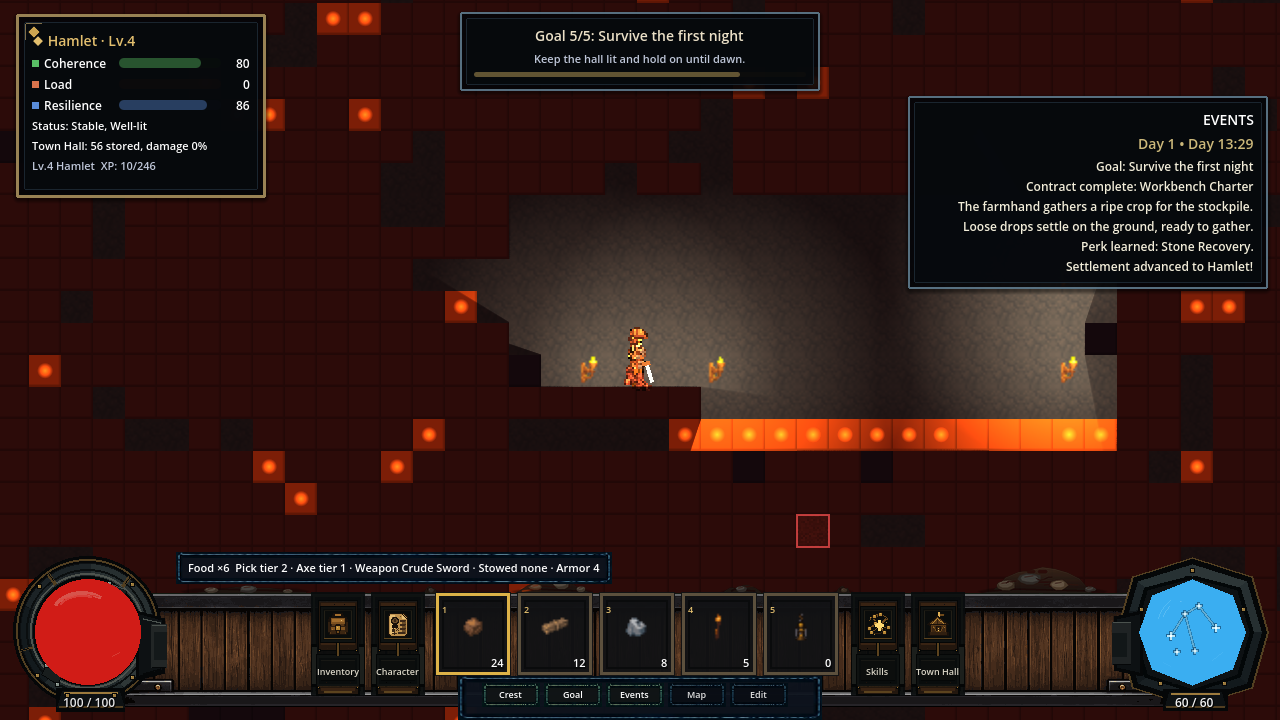
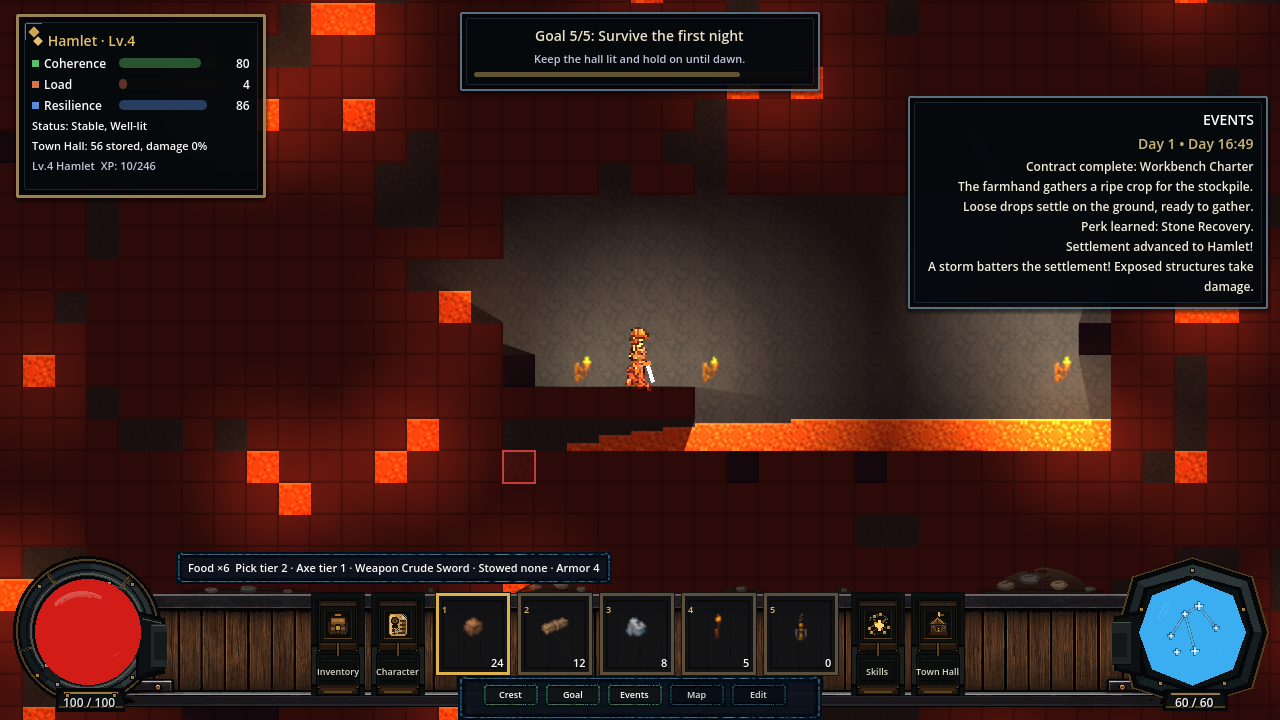
Liquid Physics: continuous falling render, enemies burn in lava, README
- Falling render fix: a submerged liquid cell (same liquid directly above in
  the flow direction) now renders FULL, so a falling column reads as one
  continuous stream instead of a choppy ladder of bottom-anchored slivers;
  only surface cells show their partial level. The sim re-tiles vertical
  neighbours (_refresh_column_tiles) on fill/drain so surface/submerged status
  stays current.
- Enemies affected by lava: simple_threat.apply_environmental_hazard(delta)
  samples the body cell (and the cell above) each physics frame and accumulates
  contact_damage into whole take_hit ticks, so weak enemies die fast and tough
  ones last a few ticks. New smoke lq_lava_damages_enemy.
- README: refreshed hell-biome shot with the new molten lava, added a
  flowing/settled lava pair, a Leveled-liquid-physics feature row, a milestone
  entry, and bumped the smoke count to 428.

Source smoke 428/428, 0 skipped; validator PASS; asset audit clean; capsule
healthy; diff --check clean.

diff --git a/README.md b/README.md
@@ -23,15 +23,21 @@ It is also a **portfolio project in AI-orchestrated software engineering**: ever
 | **Persistent state ownership** | Characters own inventory, loadout, and progression; worlds own terrain deltas and settlement simulation. | [`scripts/shell/`](scripts/shell) · [`scripts/inventory/`](scripts/inventory) |
 | **Data-first design** | Blocks, recipes, enemies, equipment, ancestries, and world presets are JSON authorities. | [`data/`](data) · [`scripts/validate_repo.py`](scripts/validate_repo.py) |
 | **Procedural world depths** | Deterministic terrain from a seed: fraction-based strata (stone → deepstone → hell), a mixed cavern/tunnel carve pass, and lava/hell as data-driven blocks. Saves store `world_seed` + player edits only, and a `gen_version` stamp keeps existing worlds byte-identical as the generator evolves. | [`scripts/world/world_gen.gd`](scripts/world/world_gen.gd) · [`data/world_settings.json`](data/world_settings.json) |
+| **Leveled liquid physics** | Lava flows as a deterministic, mass-conserving cellular automaton: per-cell fill level, pour-down/equalize-sideways, sleep-when-settled with wake-on-disturbance, partial-fill rendering, and a level-scaled glow. Persisted with the terrain deltas; density/flow-direction fields keep it water/gas-ready. | [`scripts/world/fluid_sim.gd`](scripts/world/fluid_sim.gd) · [`data/blocks.json`](data/blocks.json) |
 | **Runtime UI composition** | HUD chrome is separate from live values; inventory mutations are validated at the UI boundary. | [`scripts/ui/hud.gd`](scripts/ui/hud.gd) · [`scripts/ui/inventory_slot_cell.gd`](scripts/ui/inventory_slot_cell.gd) |
 | **Verification as a feature** | Validators and an in-engine smoke harness exercise saves, physics, UI, and system contracts. | [`docs/HANDOFF.md`](docs/HANDOFF.md) · [`scripts/main/smoke_test.gd`](scripts/main/smoke_test.gd) |
 
 ## Screenshots
 
-*Captured from the live build (gameplay shots 2026-07-24; World Depths shots 2026-07-28).*
+*Captured from the live build (gameplay shots 2026-07-24; World Depths shots 2026-07-28; Liquid Physics shots 2026-07-28).*
 
 ![Deep underground in the hell biome — the player on a hellstone ledge beside a glowing lava lake, torch-lit under an ember tint](docs/screenshots/19_hell_biome.png)
-*New in the **World Depths** arc: every world is now a deep vertical descent. Dig down through stone into **deepstone**, then into a **hell biome** of hellstone and obsidian pooled with **lava** — a non-solid, light-emitting block that burns anything standing in it (routed through the same `take_damage` authority as combat). Mixed **caverns and winding tunnels** riddle the depths, and an unmineable **bedrock floor** bounds the world. The deepest band drives an ember ambient tint; lava casts its own glow.*
+*New in the **World Depths** arc: every world is now a deep vertical descent. Dig down through stone into **deepstone**, then into a **hell biome** of hellstone and obsidian pooled with **lava** — a non-solid, light-emitting block that burns anything standing in it (routed through the same `take_damage` authority as combat). Mixed **caverns and winding tunnels** riddle the depths, and an unmineable **bedrock floor** bounds the world. The deepest band drives an ember ambient tint; lava now reads as a continuous molten body with a soft, level-scaled glow.*
+
+| ![Lava mid-pour: a full source column feeding a thinning, glowing cascade across the floor](docs/screenshots/21_lava_flow_pour.png)<br>*Lava pouring* | ![Lava settled into a flat, partial-depth pool across a stone basin](docs/screenshots/22_lava_flow_settled.png)<br>*Lava settled* |
+| --- | --- |
+
+*New in the **Liquid Physics** arc: lava is now a real **leveled fluid**. A deterministic, mass-conserving cellular automaton makes it flow, fall, and settle — each cell carries a fill level, pours down and equalizes sideways, and **sleeps** once level so a still world costs nothing. Generated pools stay at rest until **disturbed** (mine a wall and the pool pours through). It renders at **partial fill** (submerged cells read full so a falling column is a continuous stream, not a ladder), glows **brighter the fuller it is**, and burns both the player **and enemies** through the shared `contact_damage` hazard. The engine carries density and flow-direction fields, so water and gas are future data-only additions.*
 
 ![A generated cross-section of three world sizes, each descending through stone, deepstone, caves, and a hell layer streaked with lava](docs/screenshots/20_world_depths_biome.png)
 *The same progression scales to **every** world size (Small · Large · Vast shown, rendered straight from the generator). Strata are placed as **fractions of each world's depth**, so hell is the floor of every world rather than a feature of the largest one — asserted by the `wd_hell_in_all_sizes` smoke check. Terrain is regenerated deterministically from `world_seed`; only player edits are saved, so a huge world costs nothing extra on disk, and a `gen_version` stamp keeps existing worlds byte-identical.*
@@ -143,7 +149,7 @@ terrain history, settlement, and progression. Persistence lives in
 
 This repo doubles as an experiment in disciplined AI-driven development:
 
-- **Self-verifying build.** A smoke suite runs the *real game* — real input map, real physics, real saves — and asserts 403 checks across mining, save/load round-trips, legacy migrations, UI panel contents, Map/Events coexistence, HUD-kit layering, physics traversal, armor math, adaptive-music transitions, the character-rendering contract, body-specific gear resolution and alignment, directional action animation, the shared-path creation/character-select preview, the runtime-children Character panel, the backdrop contour skirt, the viewport-relative skill panel, the visible-subject labor loop, directed-goal contracts, the contracts panel, the deterministic contract balance report, the procedural world depths (fractional strata, caves, and the hell/lava biome in every world size), and event stingers. The full suite is at **418/418** in source (2026-07-28); the exported Windows artifact launches and runs green with six `res://` fixture checks skipped only under read-only export (verified by CI on every push). Two runtime notes: the real-time `fq09u1_live_clip_switch` adaptive-music check occasionally cold-flakes and passes on rerun; the `fq19_map_events_coexist` geometry check is sensitive to a contaminated persisted `shell.json` and passes from a clean profile.
+- **Self-verifying build.** A smoke suite runs the *real game* — real input map, real physics, real saves — and asserts 403 checks across mining, save/load round-trips, legacy migrations, UI panel contents, Map/Events coexistence, HUD-kit layering, physics traversal, armor math, adaptive-music transitions, the character-rendering contract, body-specific gear resolution and alignment, directional action animation, the shared-path creation/character-select preview, the runtime-children Character panel, the backdrop contour skirt, the viewport-relative skill panel, the visible-subject labor loop, directed-goal contracts, the contracts panel, the deterministic contract balance report, the procedural world depths (fractional strata, caves, and the hell/lava biome in every world size), the leveled liquid physics (lava pours, conserves mass, settles, and burns the player and enemies), and event stingers. The full suite is at **428/428** in source (2026-07-28); the exported Windows artifact launches and runs green with six `res://` fixture checks skipped only under read-only export (verified by CI on every push). Two runtime notes: the real-time `fq09u1_live_clip_switch` adaptive-music check occasionally cold-flakes and passes on rerun; the `fq19_map_events_coexist` geometry check is sensitive to a contaminated persisted `shell.json` and passes from a clean profile.
 - **Evidence over claims.** Increment scope, decisions, review findings, and validation state are summarized in [`docs/HANDOFF.md`](docs/HANDOFF.md). Historical raw protocol artifacts are still tracked; their fit with the current public-repository profile is explicitly flagged for owner review rather than silently presented as settled policy.
 - **Independent review loop.** Each change was reviewed by a separate agent pass before commit; findings (from save-corruption edge cases to invisible-tint rendering bugs) are documented and fixed in the ledgers.
 - **Task queue discipline.** Work follows [`docs/FABLE_TASK_QUEUE.md`](docs/FABLE_TASK_QUEUE.md) one bounded increment at a time — FQ-00 through FQ-09 plus the FQ-09R/S/V/C/W/A/M and U0–U3 refinements (skill-tree star map, variant art pools, the opening cinematic, backdrops and cave darkness, the asset roadmap, action effects, and the full adaptive-music arc) on top of the v0.1–v0.6 foundation, each documented in [`docs/HANDOFF.md`](docs/HANDOFF.md) and [`docs/VARIABLE_MATRIX.md`](docs/VARIABLE_MATRIX.md).
@@ -234,6 +240,7 @@ Persistence: `user://shell.json` (profile + characters) and `user://worlds/<id>.
 
 Dated shipped milestones, newest first (full detail in [`docs/HANDOFF.md`](docs/HANDOFF.md) and [`docs/FABLE_TASK_QUEUE.md`](docs/FABLE_TASK_QUEUE.md)):
 
+- **2026-07-28 — Liquid Physics: lava flows.** Lava became a real **leveled fluid** — a deterministic, mass-conserving cellular automaton (`scripts/world/fluid_sim.gd`) where each cell carries a fill level, pours down and equalizes sideways, and **sleeps** once settled so a still world is free. Generated pools rest until **disturbed** (mine a wall and it pours), persist with the terrain deltas (undisturbed worlds reload byte-identical), and render at **partial fill** with submerged cells reading full so a falling column is a continuous stream. Lava now looks molten with a **level-scaled glow** and burns both the player **and enemies** through the shared `contact_damage` hazard. Density/flow-direction fields make water and gas future data-only additions. Source smoke **428/428** (adds `lq_*` checks).
 - **2026-07-28 — World Depths: bigger, deeper worlds with caves and a hell biome.** Terrain is now a real vertical descent through data-driven strata (stone → deepstone → hell) placed as **fractions of each world's depth**, so every size ends in a hell biome — hellstone and obsidian pooled with **lava**, a non-solid, light-emitting block whose contact damage routes through the same `take_damage` authority as combat. A deterministic carve pass cuts **mixed caverns and winding tunnels**; an unmineable **bedrock floor** bounds the world; the deepest band drives an ember ambient tint. Generation stays seed-deterministic and save-cheap (seed + player edits only), with a `gen_version` stamp so existing worlds regenerate byte-identical. Source smoke **418/418** (adds `wd_*` checks incl. `wd_hell_in_all_sizes`); exported Windows artifact green (CI).
 
 - **2026-07-24 — R-09 slice 3: deterministic balance report.** The contract arc now includes a fixed-seed named scenario (`r09_fixed_seed_steward_policy`) that simulates a scripted 4-day policy, records inflow/outflow, completion latency, pressure, reward value, bottlenecks, and proposed tuning, and emits JSON + markdown evidence without mutating balance data. Baselines are tracked in [`docs/reports/r09_balance_report.md`](docs/reports/r09_balance_report.md) and [`docs/reports/r09_balance_report.json`](docs/reports/r09_balance_report.json). Source smoke **403/403**; exported Windows smoke **397/397** + 6 skipped.

diff --git a/docs/WORK_ORDER_LIQUID_PHYSICS.md b/docs/WORK_ORDER_LIQUID_PHYSICS.md
@@ -1,7 +1,32 @@
 # Liquid Physics — Flowing, Settling Fluids (Work Order)
 
-**Status: LQ-1 + LQ-2 DONE (source-verified). Arc substantially complete —
-water/gas are future data-only adds on this engine.**
+**Status: LQ-1 + LQ-2 (+ visual/feel polish) DONE (source-verified). Arc
+substantially complete — water/gas are future data-only adds on this engine.**
+
+**Polish pass (2026-07-28, operator-driven):** the flat-square-with-a-glowing-
+circle look and a weak-feeling flow were reworked. Lava now renders as a molten
+mottled red-orange body with a hotter top skin (`_make_block_texture` lava
+branch; fill-tile crops inherit it). Liquid lights are now broad, soft, and
+**shadowless** — the shadowed per-cell disc was what made a lake read as a grid of
+circles — with **energy scaled by fill level** (light-by-level, previously
+deferred) plus a slow `_tick_lava_glow` flicker; torch lights unchanged. Flow is
+livelier: lava viscosity 3→2, `FLOW_FRACTION` 0.5→0.6, with `MIN_LEVEL`/`FLOW_EPS`
+tightened to 0.012/0.006 so a settle sheds only ~0.02 mass. Source smoke 427/427;
+captures reviewed (continuous molten liquid, blended glow, no circles).
+
+**Follow-up (2026-07-28):** (1) **Falling render fix** — a submerged cell (same
+liquid directly above in the flow direction) now renders FULL, so a falling
+column reads as a continuous stream instead of a choppy ladder of bottom-anchored
+slivers; only surface cells show their partial level. The sim re-tiles the
+vertical neighbours (`_refresh_column_tiles`) when a cell fills/drains so
+surface/submerged status stays current. (2) **Enemies burn in lava** —
+`simple_threat.apply_environmental_hazard(delta)` samples the body cell (and the
+cell above) each physics frame and accumulates `contact_damage` into whole
+`take_hit` ticks, so a weak enemy dies fast in lava and a tough one lasts a few
+ticks (mirrors the player's paced burn). New smoke `lq_lava_damages_enemy`.
+README refreshed with the new molten lava + two Liquid Physics shots. **Source
+smoke 428/428, 0 skipped; validator PASS; asset audit clean; capsule healthy;
+`diff --check` clean.**
 
 **LQ-2 (partial-fill rendering) shipped to source-green 2026-07-28.** A liquid
 block now builds `LIQUID_FILL_LEVELS` (8) bottom-anchored fill tiles — the full
